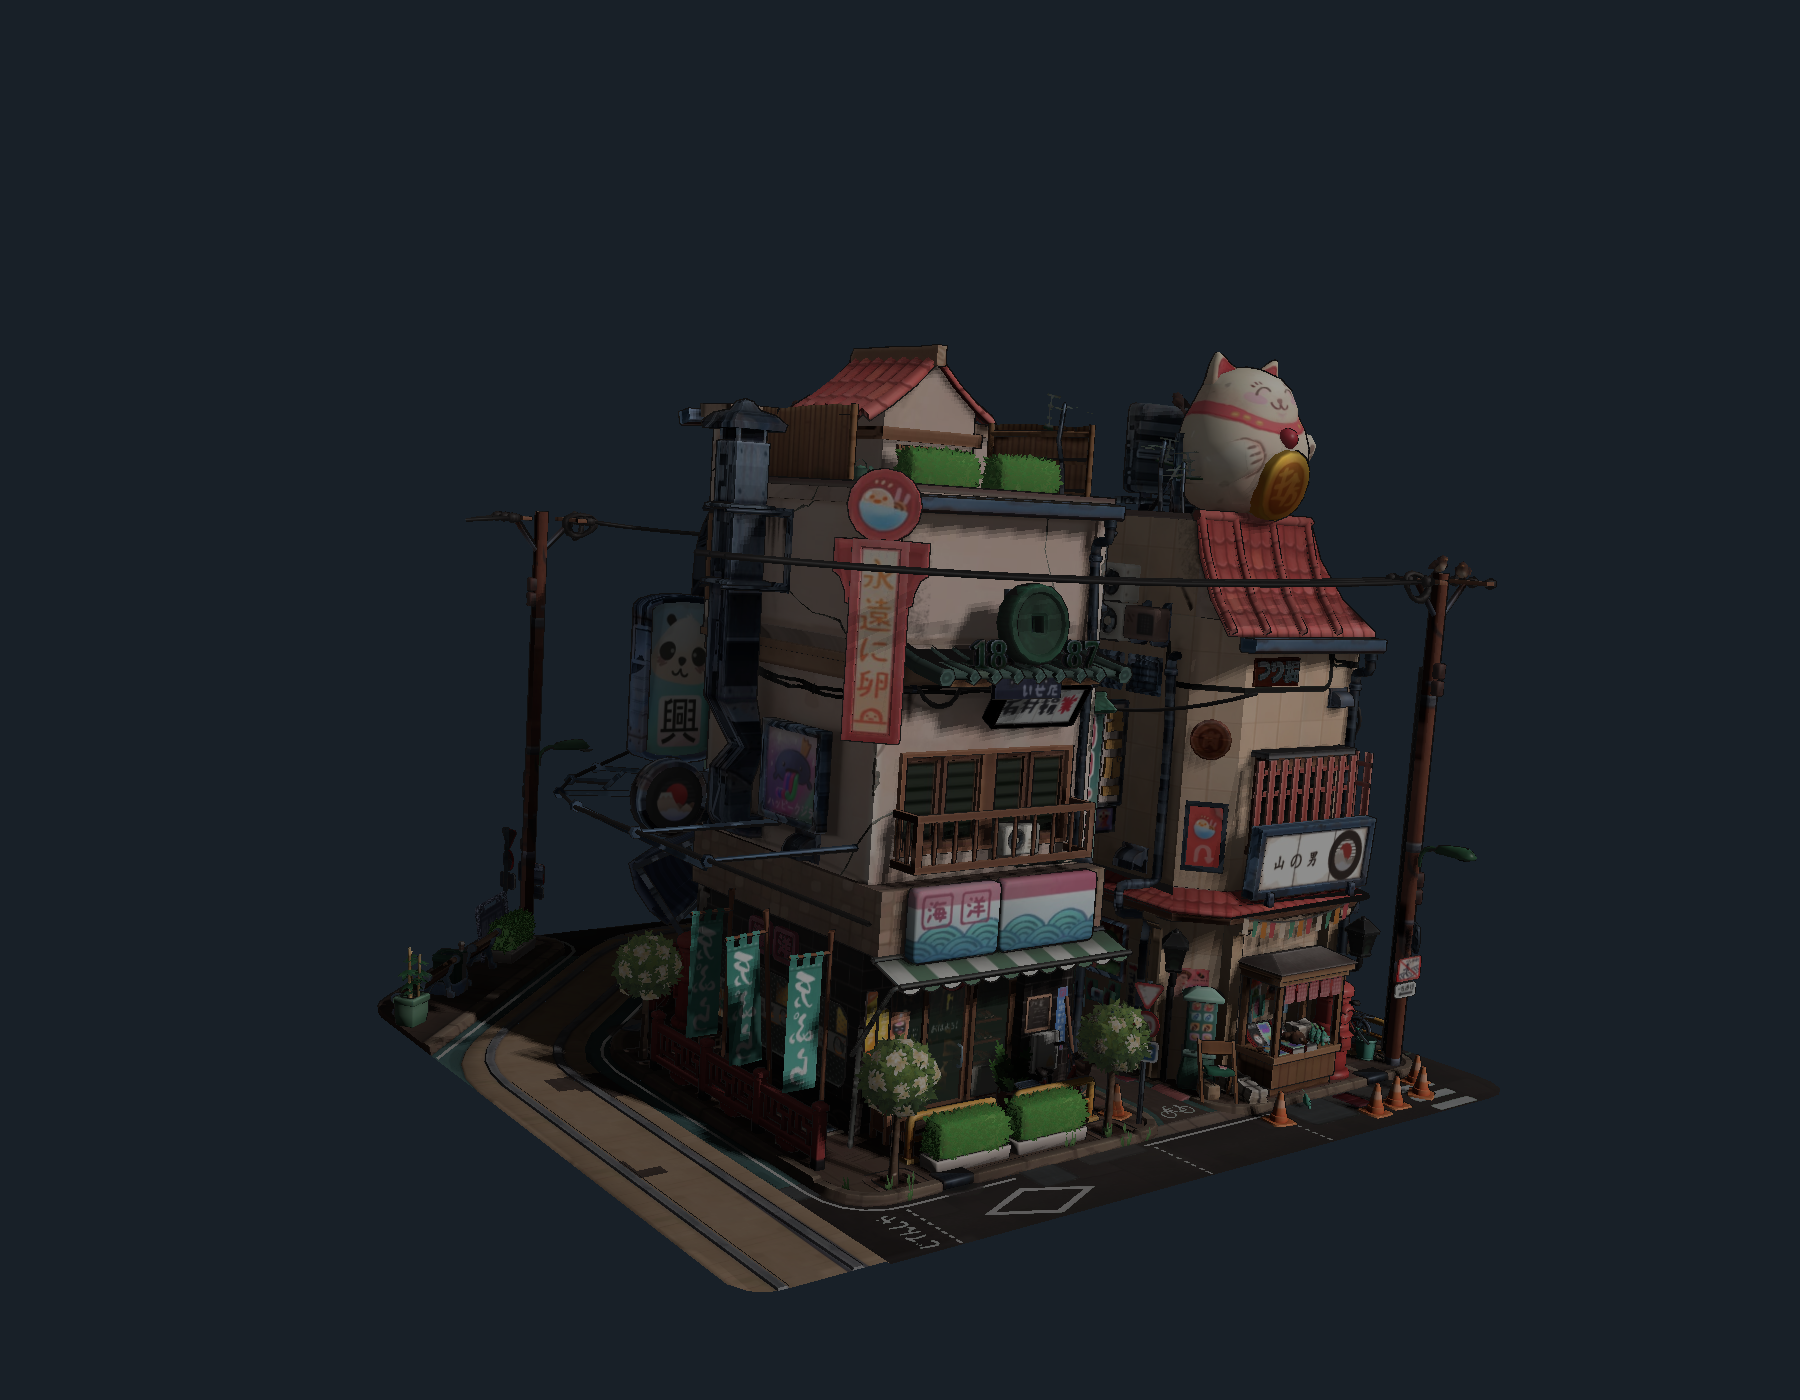
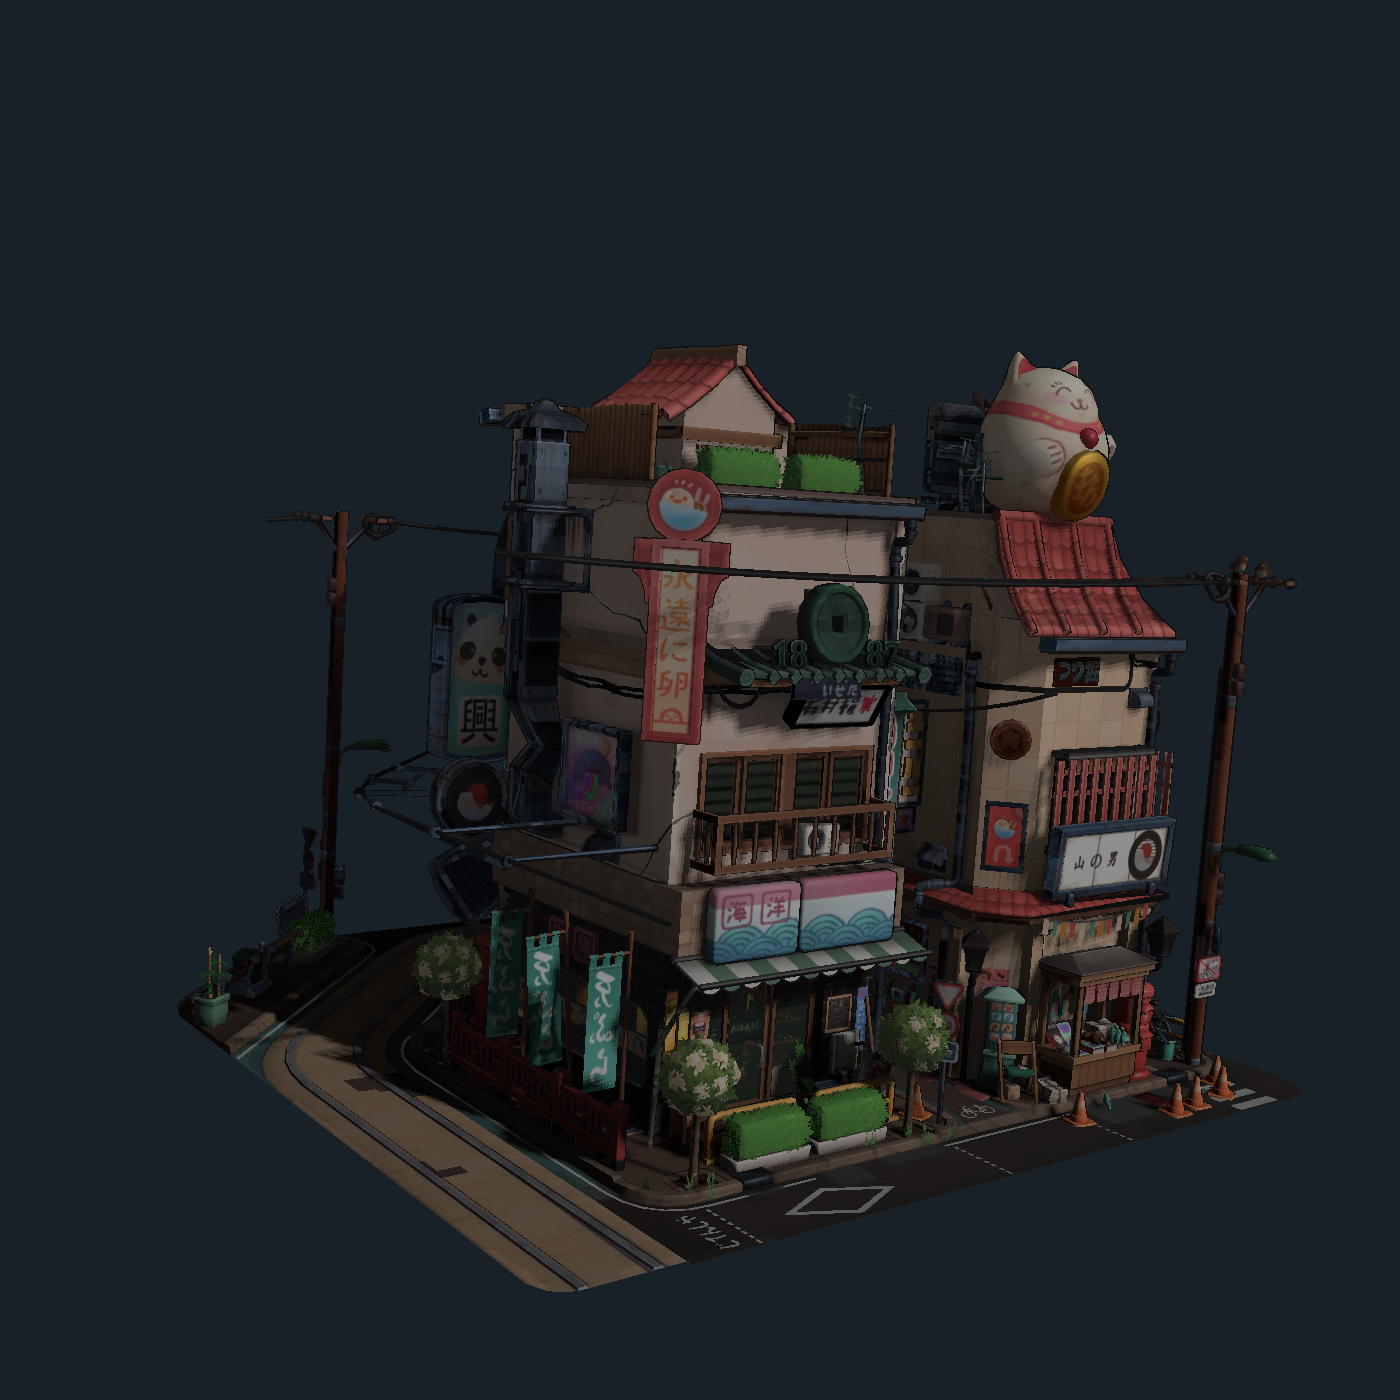
docs(gltf): render the second tokyo shot square to match the demo
The demo renders 700x700 (square); the 1800x1400 frame captured more
horizontal field, making the diorama look small. Re-render at 1400x1400
so it fills the frame like the web demo. Cache-bust to v4.

Changed region(s): [[0.1229, 0.2457, 0.9214, 0.9214]]

diff --git a/crates/maquette-gltf/README.md b/crates/maquette-gltf/README.md
@@ -54,7 +54,7 @@ The same [Little Tokyo](https://sketchfab.com/3d-models/little-tokyo-diorama-607
 ```
 
 </td>
-<td><a href="https://bernsteining.github.io/maquette/?model=tokyo.glb&camera=%5B-714.868%2C125.157%2C793.581%5D&center=%5B-86%2C5%2C-25%5D&up=%5B0.02%2C0.991%2C-0.13%5D&background=%22%23182028%22&shadows=true" title="Open in the live demo"><img src="https://raw.githubusercontent.com/bernsteining/maquette/master/examples/readme/gltf-tokyo-camera.png?v=3" width="340" alt="Little Tokyo diorama from a side three-quarter angle" /></a></td>
+<td><a href="https://bernsteining.github.io/maquette/?model=tokyo.glb&camera=%5B-714.868%2C125.157%2C793.581%5D&center=%5B-86%2C5%2C-25%5D&up=%5B0.02%2C0.991%2C-0.13%5D&background=%22%23182028%22&shadows=true" title="Open in the live demo"><img src="https://raw.githubusercontent.com/bernsteining/maquette/master/examples/readme/gltf-tokyo-camera.png?v=4" width="340" alt="Little Tokyo diorama from a side three-quarter angle" /></a></td>
 </tr>
 </table>
 
@@ -85,5 +85,5 @@ Every dependency is pure Rust and wasm-friendly, so the build is a plain `cargo 
 ## Building from source
 
 ```sh
-make gltf-build   # cargo build → wasm-opt -O3 → install into the local Typst package dir
+make gltf-build
 ```
